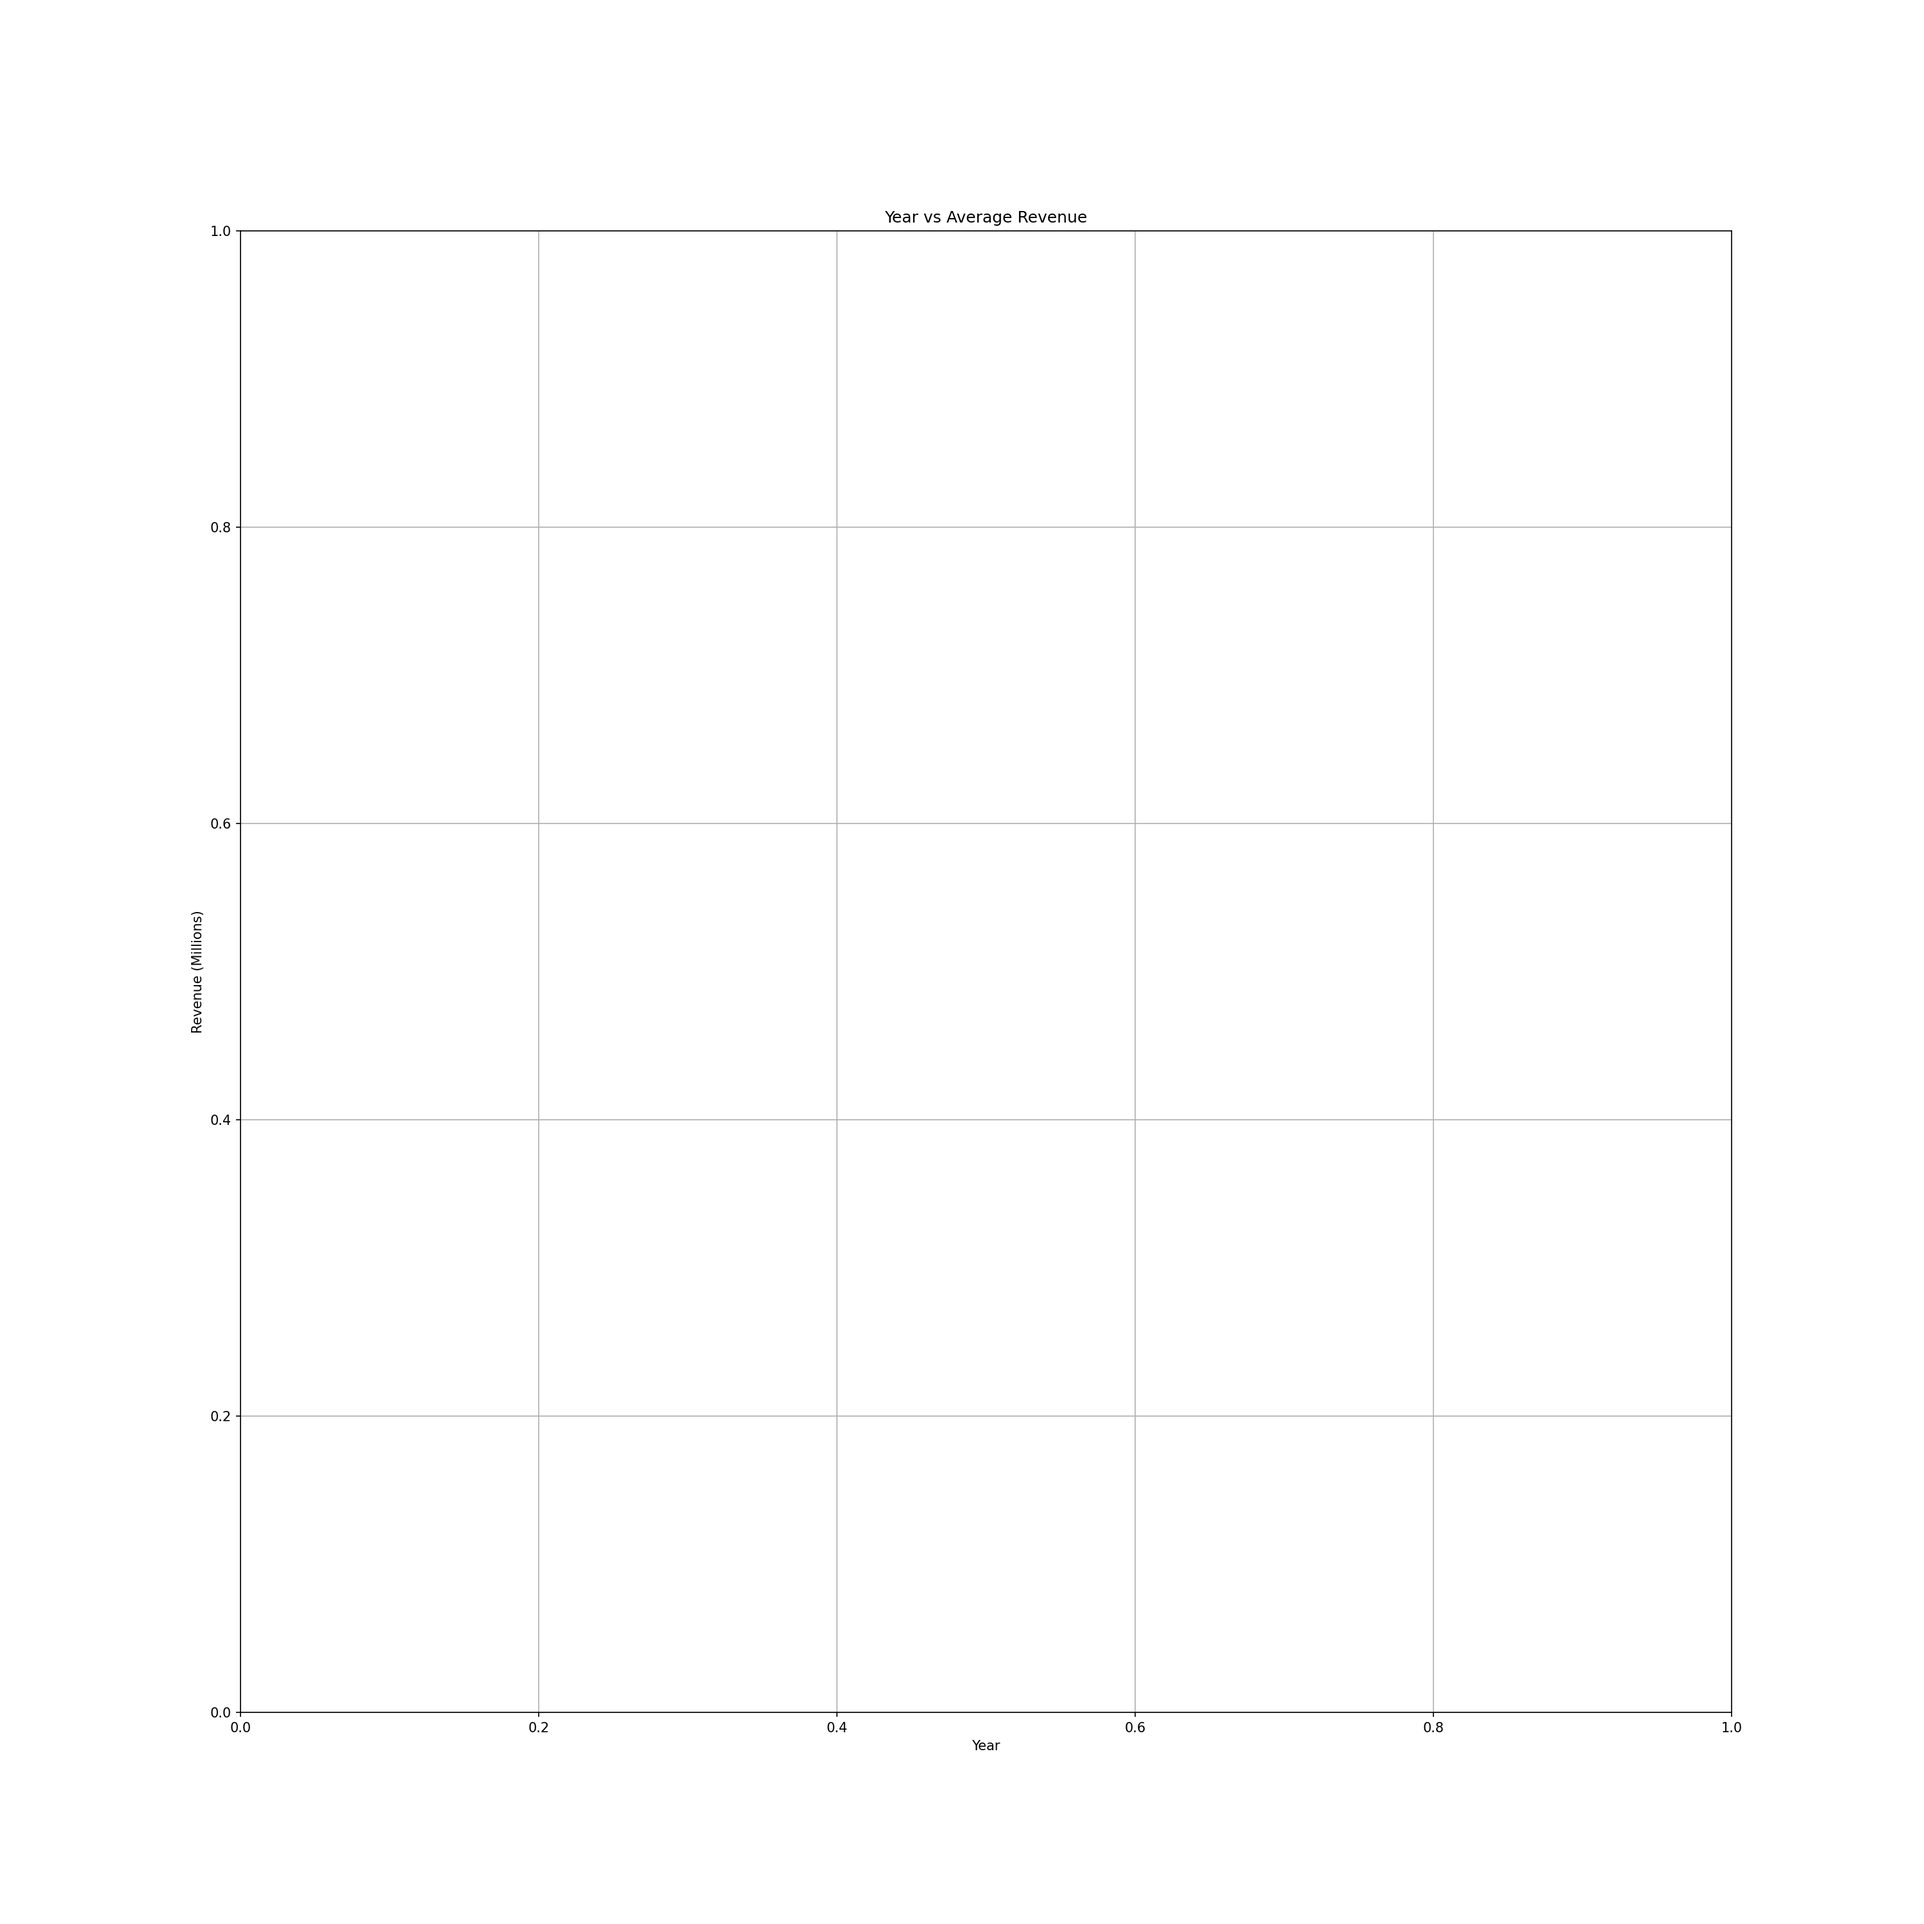
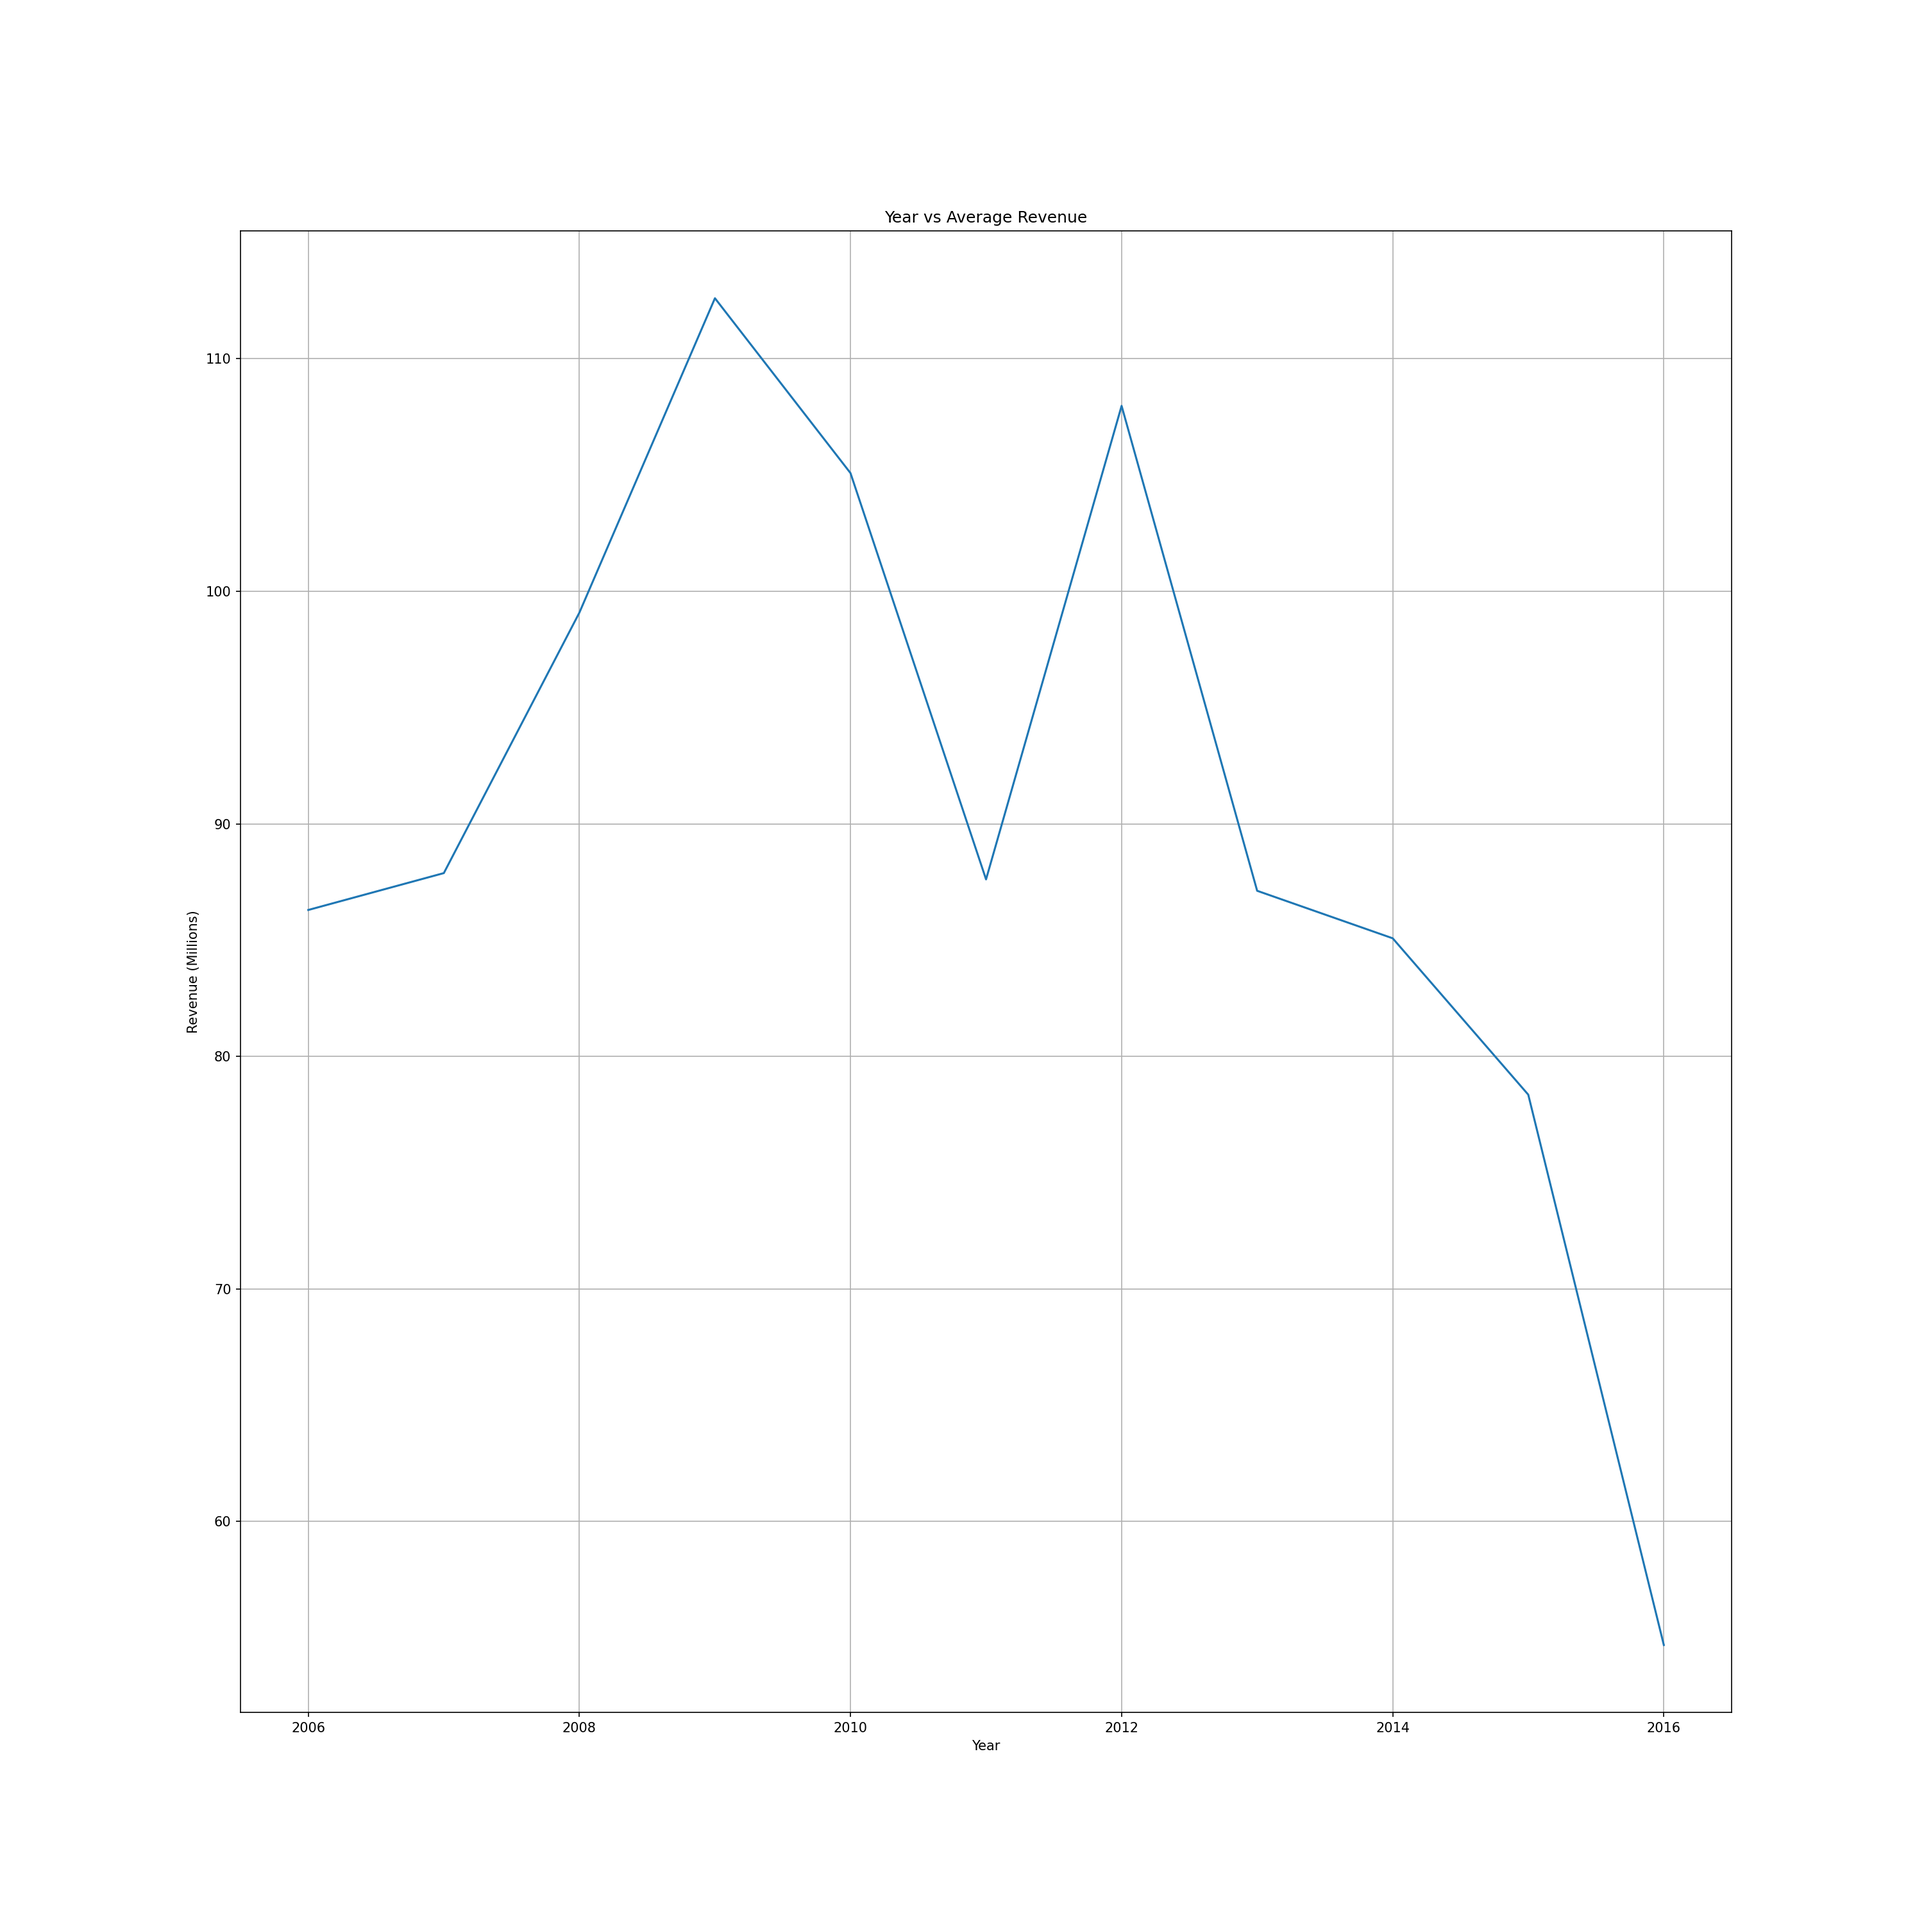
Create graph for Year vs Average Revenue

Changed region(s): [[0.434, 0.248, 0.465, 0.31]]

diff --git a/DataAnalysis.py b/DataAnalysis.py
@@ -73,14 +73,27 @@ plt.savefig("Figures/Genre vs Average Revenue.png")
 # Actors vs Average Revenue
 
 # Year vs Average Revenue
-
+yearRange = range(min(data.Year), max(data.Year) + 1)
+yearRevenues = {}
+for year in yearRange:
+    yearRevenues[year] = []
+for index in data.index:
+    itemRevenue = data["Revenue (Millions)"][index]
+    if math.isnan(itemRevenue):
+        continue
+    yearRevenues[data.Year[index]].append(itemRevenue)
+for item in yearRevenues:
+    if len(yearRevenues[item]) == 0:
+        print(item)
+        del yearRevenues[item]
+    yearRevenues[item] = sum(yearRevenues[item]) / len(yearRevenues[item])
 
 fig4, ax4 = plt.subplots(figsize=(20, 20))
 ax4.grid()
 ax4.set_title("Year vs Average Revenue")
 ax4.set_xlabel("Year")
 ax4.set_ylabel("Revenue (Millions)")
-print(data.Year, data["Revenue (Millions)"])
+ax4.plot(yearRange, list(yearRevenues.values()))
 plt.savefig("Figures/Year vs Average Revenue.png")
 
 # Runtime vs Average Revenue
